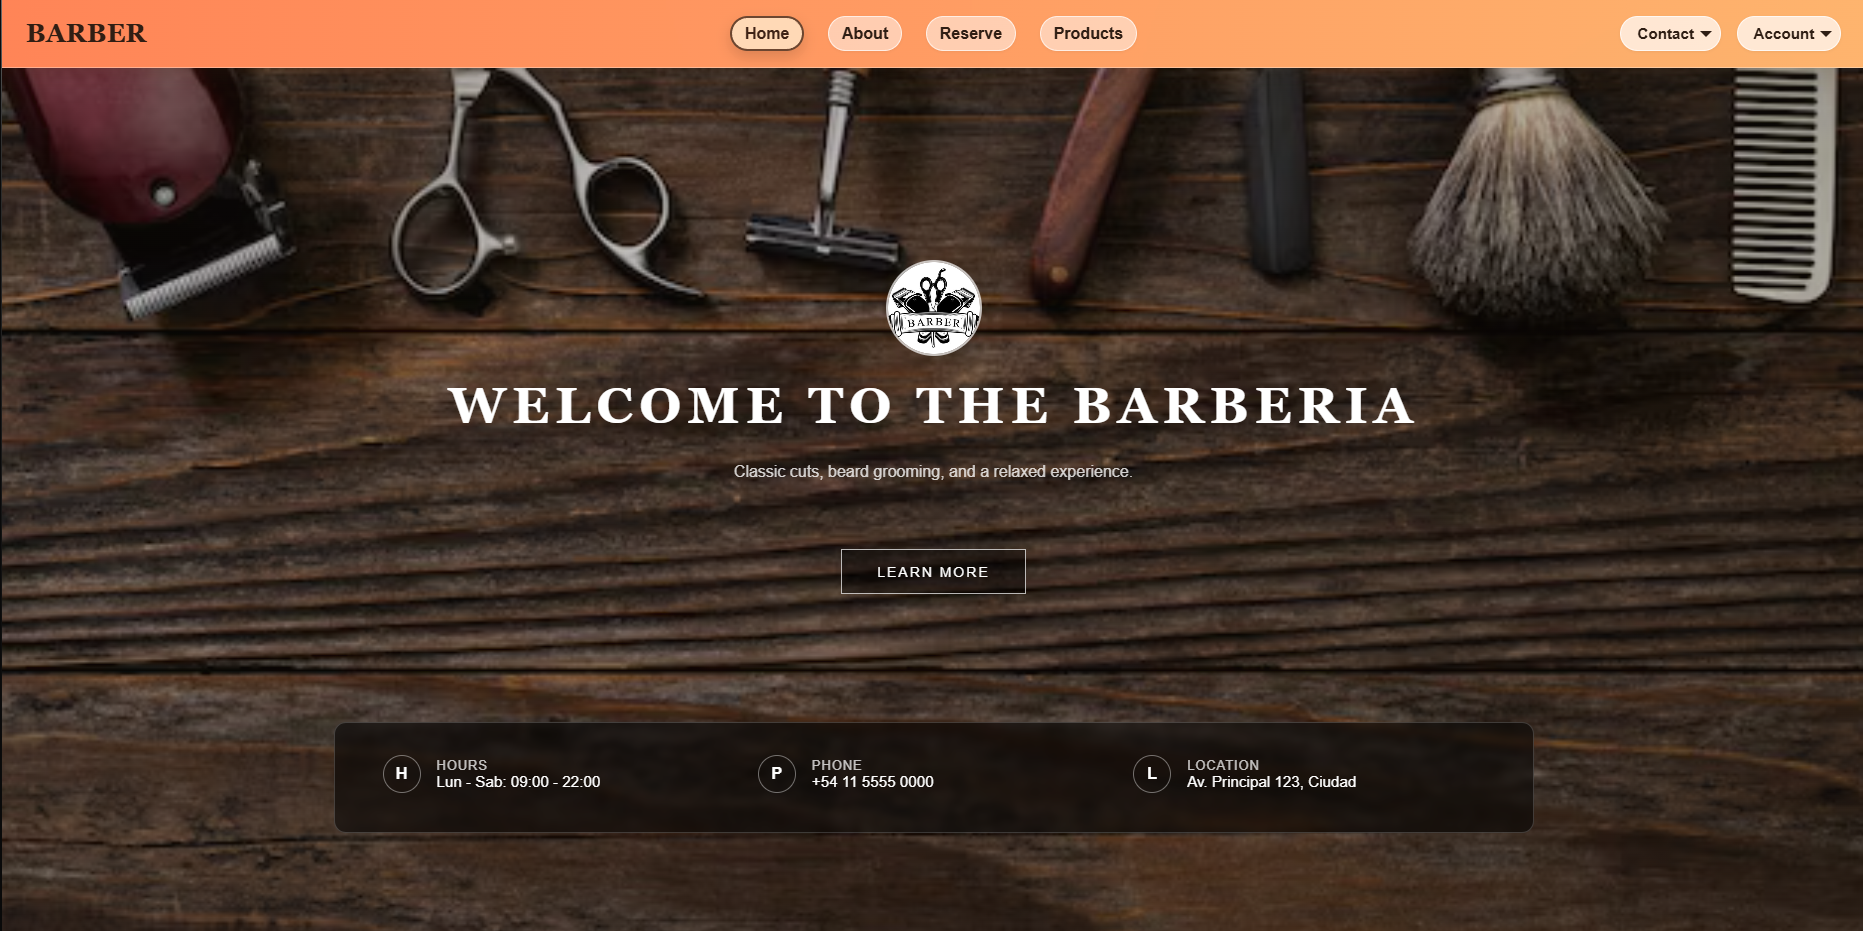
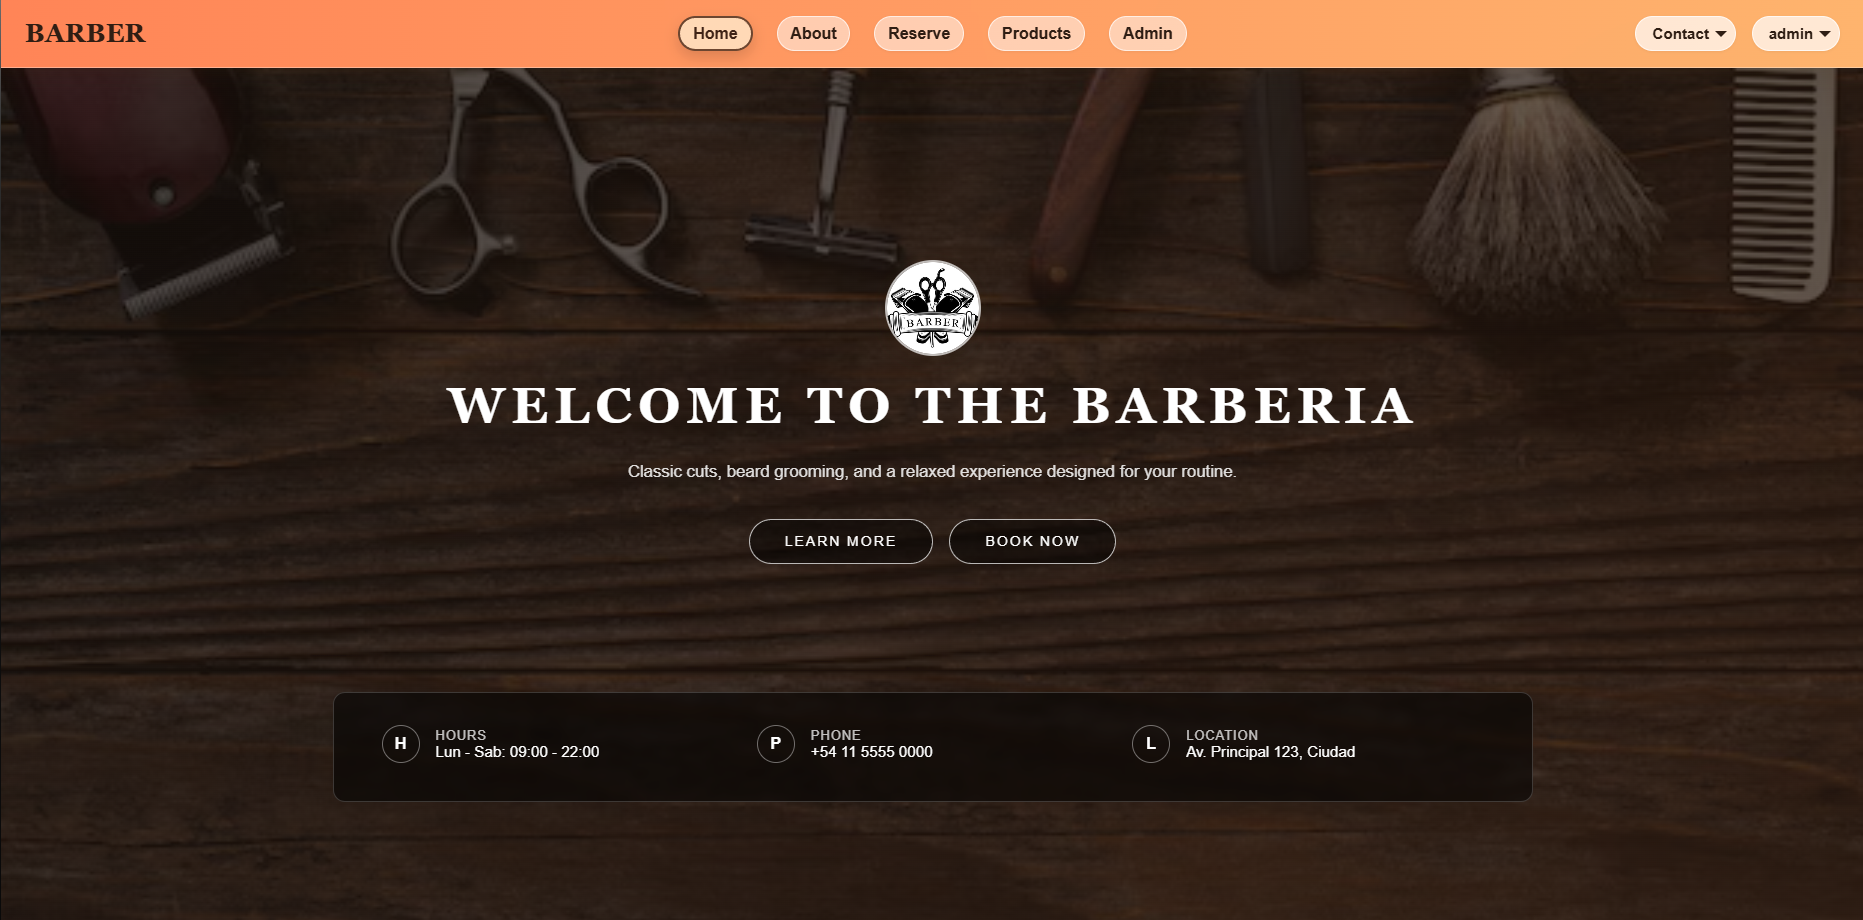
Refactor code structure for improved readability and maintainability

diff --git a/src/app/reserve/reserve.ts b/src/app/reserve/reserve.ts
@@ -28,8 +28,13 @@ export class Reserve {
   unavailableTimes: string[] = [];
   isCheckingAvailability = false;
   availabilityMessage = '';
+  isBooking = false;
 
   async reserve(): Promise<void> {
+    if (this.isBooking) {
+      return;
+    }
+
     if (!this.service || !this.date || !this.time) {
       this.toast.error('Please fill in all fields');
       return;
@@ -49,32 +54,40 @@ export class Reserve {
       return;
     }
 
-    const appointment: Appointment = {
-      id: Date.now(),
-      userEmail: currentUser.email,
-      date: this.date,
-      time: this.time,
-      service: this.service,
-    };
+    this.isBooking = true;
+    this.cdr.detectChanges();
 
-    const available = await this.appointmentService.isTimeSlotAvailable(this.date, this.time);
+    try {
+      const appointment: Appointment = {
+        id: Date.now(),
+        userEmail: currentUser.email,
+        date: this.date,
+        time: this.time,
+        service: this.service,
+      };
 
-    if (!available) {
-      this.toast.error('This time slot is already booked');
-      await this.refreshAvailability();
-      return;
+      const available = await this.appointmentService.isTimeSlotAvailable(this.date, this.time);
+
+      if (!available) {
+        this.toast.error('This time slot is already booked');
+        await this.refreshAvailability();
+        return;
+      }
+
+      await this.appointmentService.addAppointment(appointment);
+      this.appointments = await this.appointmentService.getUserAppointments(currentUser.email);
+
+      this.toast.success('Appointment booked successfully');
+
+      this.service = '';
+      this.date = '';
+      this.time = '';
+      this.availabilityMessage = '';
+      this.unavailableTimes = [];
+    } finally {
+      this.isBooking = false;
+      this.cdr.detectChanges();
     }
-
-    await this.appointmentService.addAppointment(appointment);
-    this.appointments = await this.appointmentService.getUserAppointments(currentUser.email);
-
-    this.toast.success('Appointment booked successfully');
-
-    this.service = '';
-    this.date = '';
-    this.time = '';
-    this.availabilityMessage = '';
-    this.unavailableTimes = [];
   }
 
   async ngOnInit(): Promise<void> {

diff --git a/src/app/reserve/reserve.html b/src/app/reserve/reserve.html
@@ -62,7 +62,9 @@
       </p>
     }
 
-    <button class="book-btn" (click)="reserve()">Book Appointment</button>
+    <button class="book-btn" (click)="reserve()" [disabled]="isBooking">
+      {{ isBooking ? 'Booking...' : 'Book Appointment' }}
+    </button>
   </div>
 
 </div>

diff --git a/README.md b/README.md
@@ -136,7 +136,8 @@ The application uses Supabase to store users, appointments, and products. In the
 ![Products](public/assets/img/screenshots/Products.png)
 
 ### Administration panel
-![Administration](public/assets/img/screenshots/Admin.png)
+![Administration](public/assets/img/screenshots/Admin1.png)
+![Administration](public/assets/img/screenshots/Admin2.png)
 
 ## Repository
 
